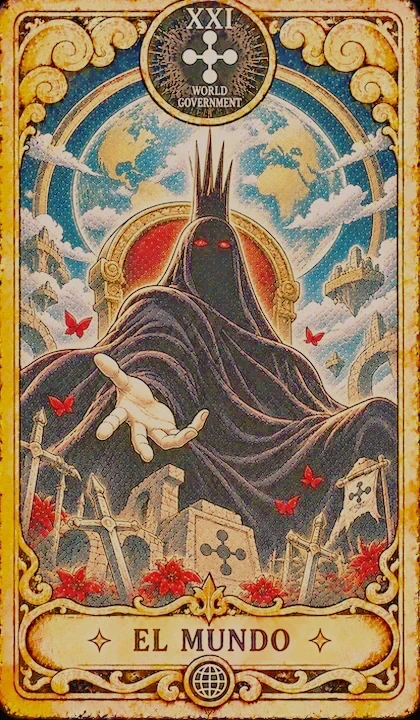
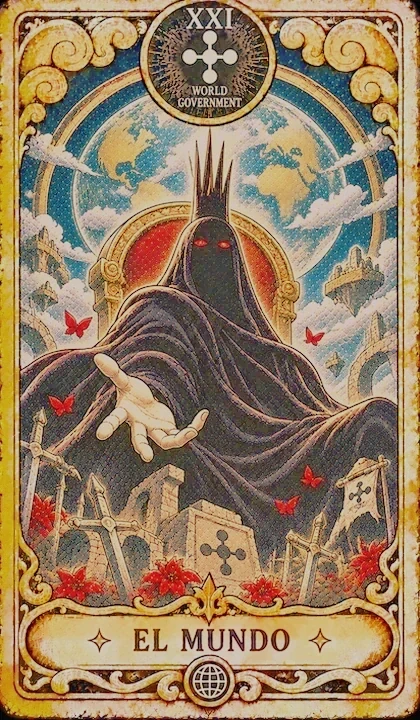
Arcanos Mayores: marcos menos amarillos, al tono de las menores

diff --git a/app.js b/app.js
@@ -137,7 +137,7 @@
     estado.orden = a;
   }
   /* Si a un mazo personalizado le falta la imagen de una carta (por ejemplo en miniaturas de temas), se usa la del mazo clásico para no mostrar un hueco. */
-  const src = (mazo, i) => { const f = !cartaDisponible(i, mazo); const m = f ? 'rws' : mazo; return `${rutaMazo(m)}/${String(i).padStart(2, '0')}.webp${m === 'rws' ? '?v=2' : m === 'mn1' ? '?v=7' : ''}`; };
+  const src = (mazo, i) => { const f = !cartaDisponible(i, mazo); const m = f ? 'rws' : mazo; return `${rutaMazo(m)}/${String(i).padStart(2, '0')}.webp${m === 'rws' ? '?v=2' : m === 'mn1' ? '?v=8' : ''}`; };
   const cara = (i, mazo, lazy = true) =>
     `<img src="${src(mazo, i)}" alt="${esc(CARTAS[i].nombre)}" ${lazy ? 'loading="lazy"' : ''} decoding="async" draggable="false">`;
   const reverso = (mazo) => (mazo === 'sola' ? reversoDibujado() : `<img src="${rutaMazo(mazo)}/back.webp" alt="" decoding="async" draggable="false">`);

diff --git a/index.html b/index.html
@@ -316,6 +316,6 @@
 <script src="cards.js?v=35"></script>
 <script src="menores.js?v=35"></script>
 <script src="sonido.js?v=3"></script>
-<script src="app.js?v=77"></script>
+<script src="app.js?v=78"></script>
 </body>
 </html>
